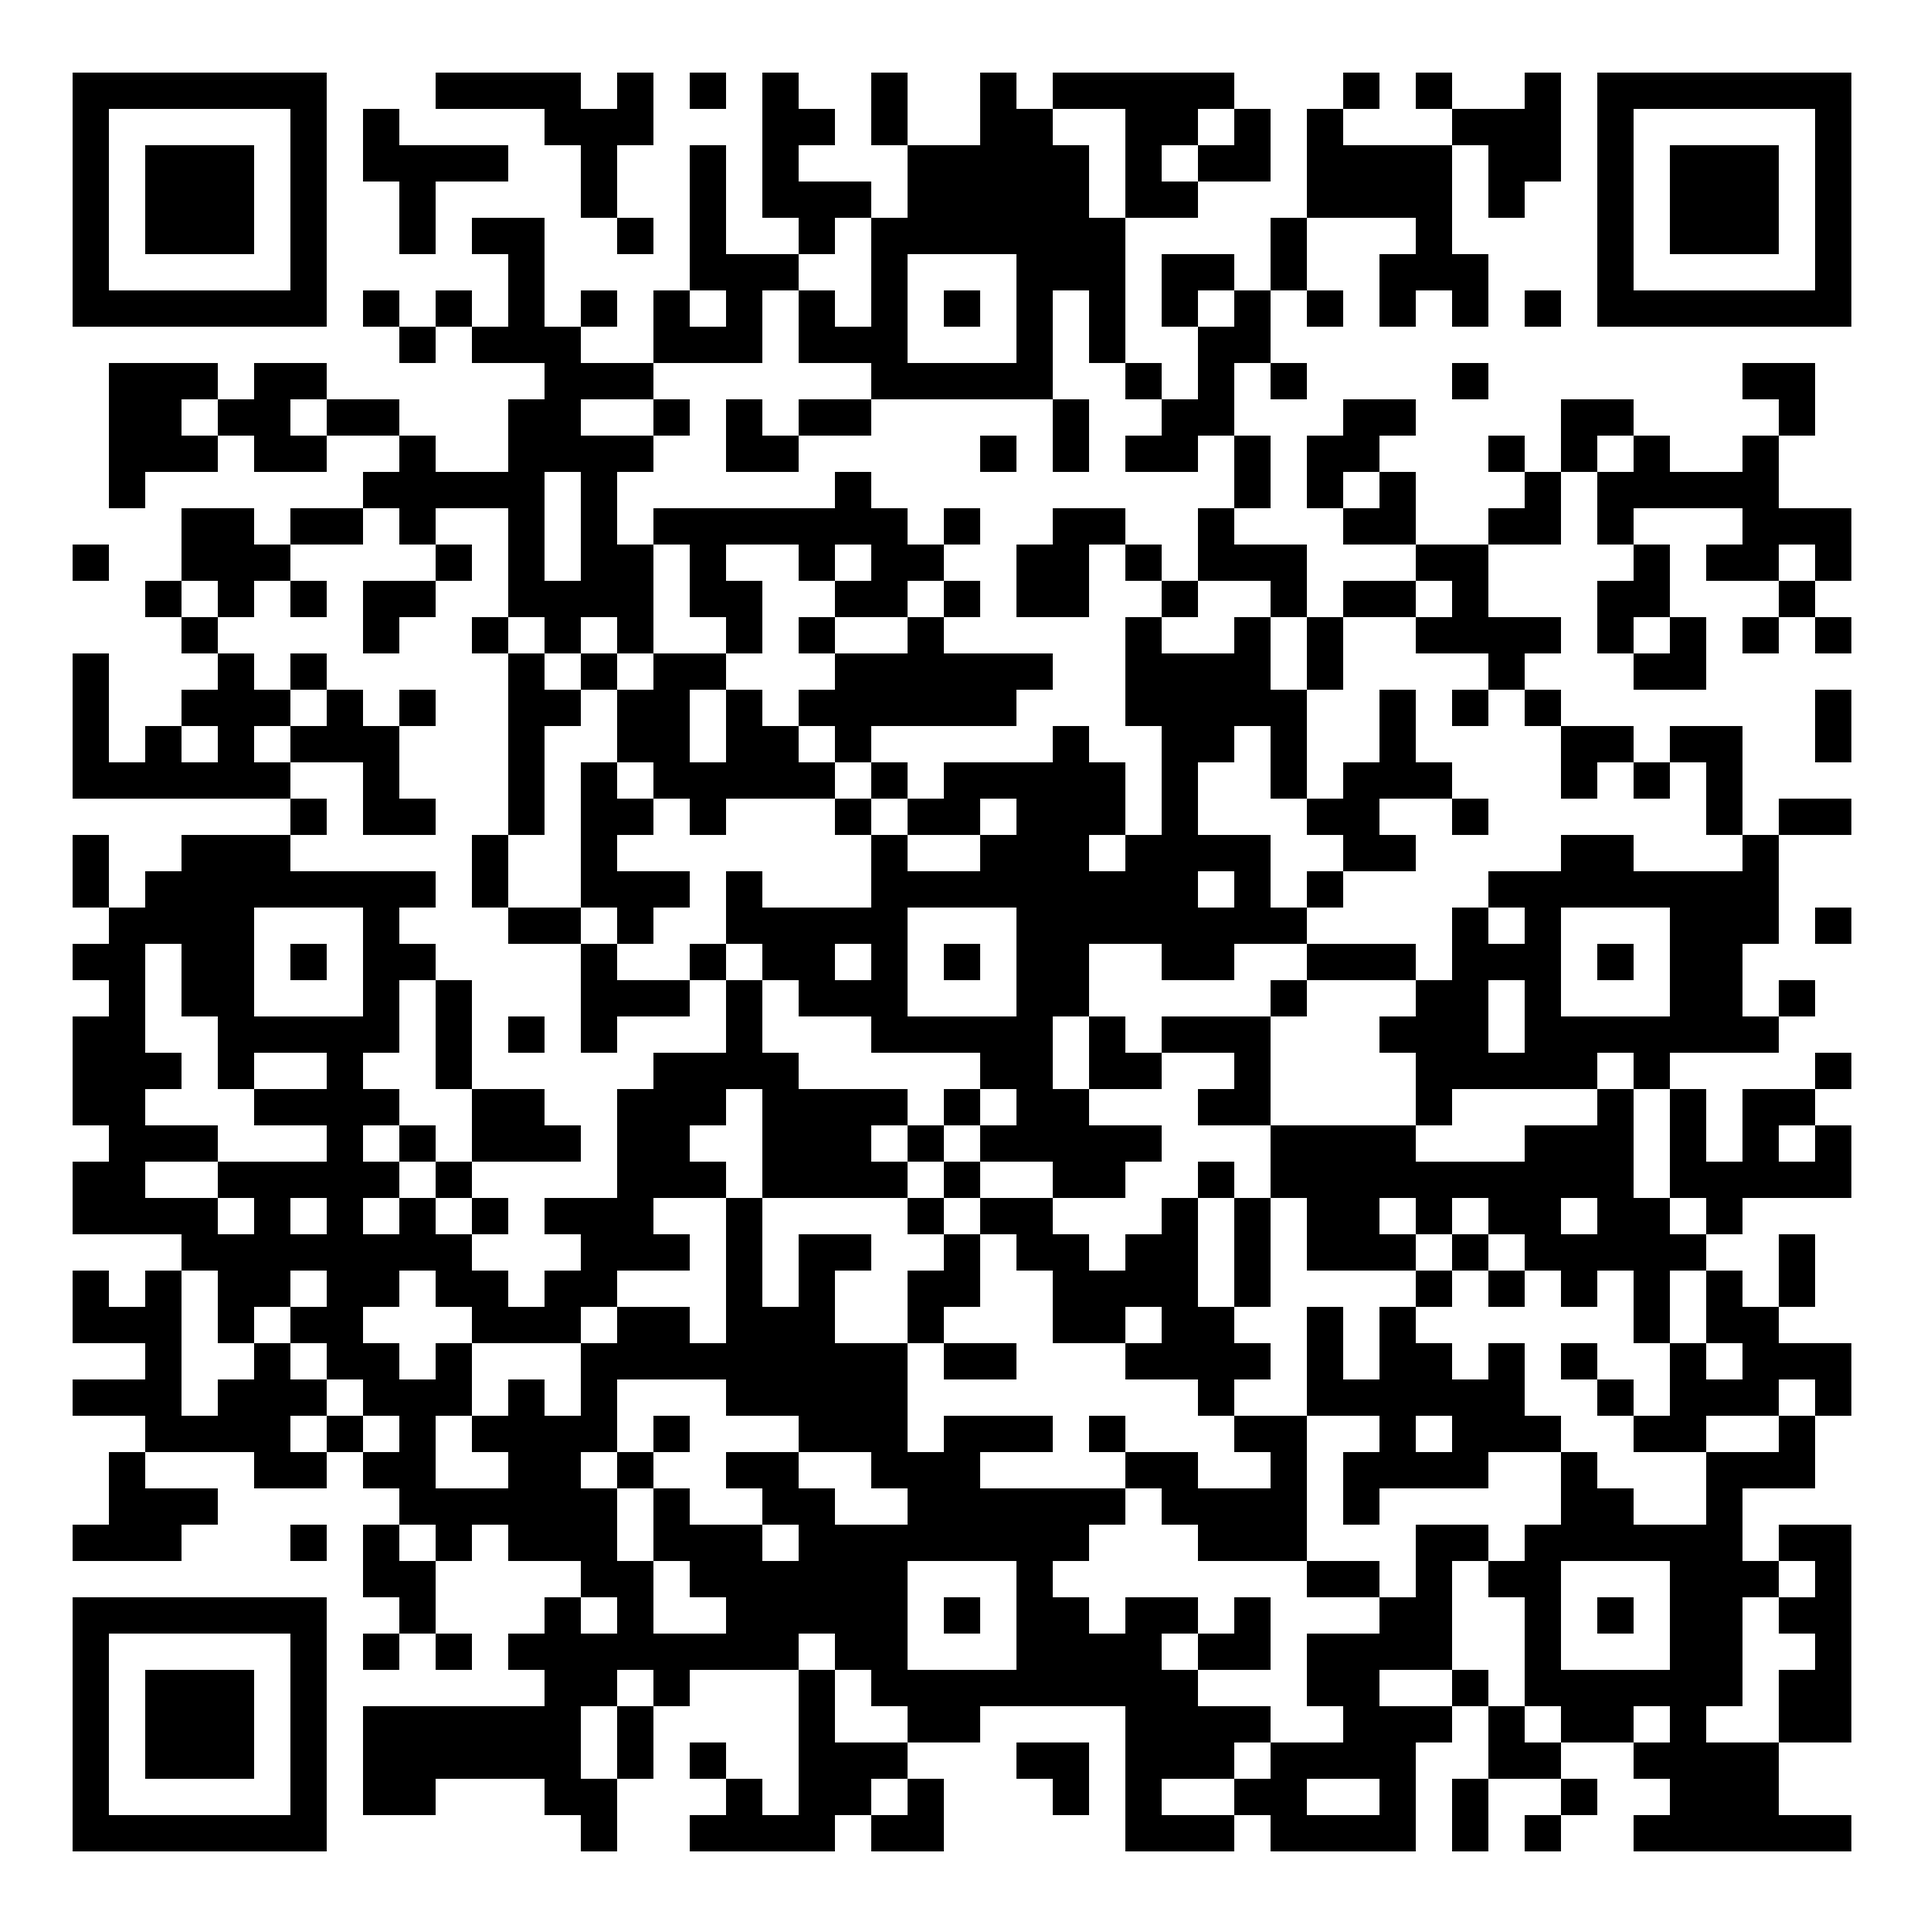
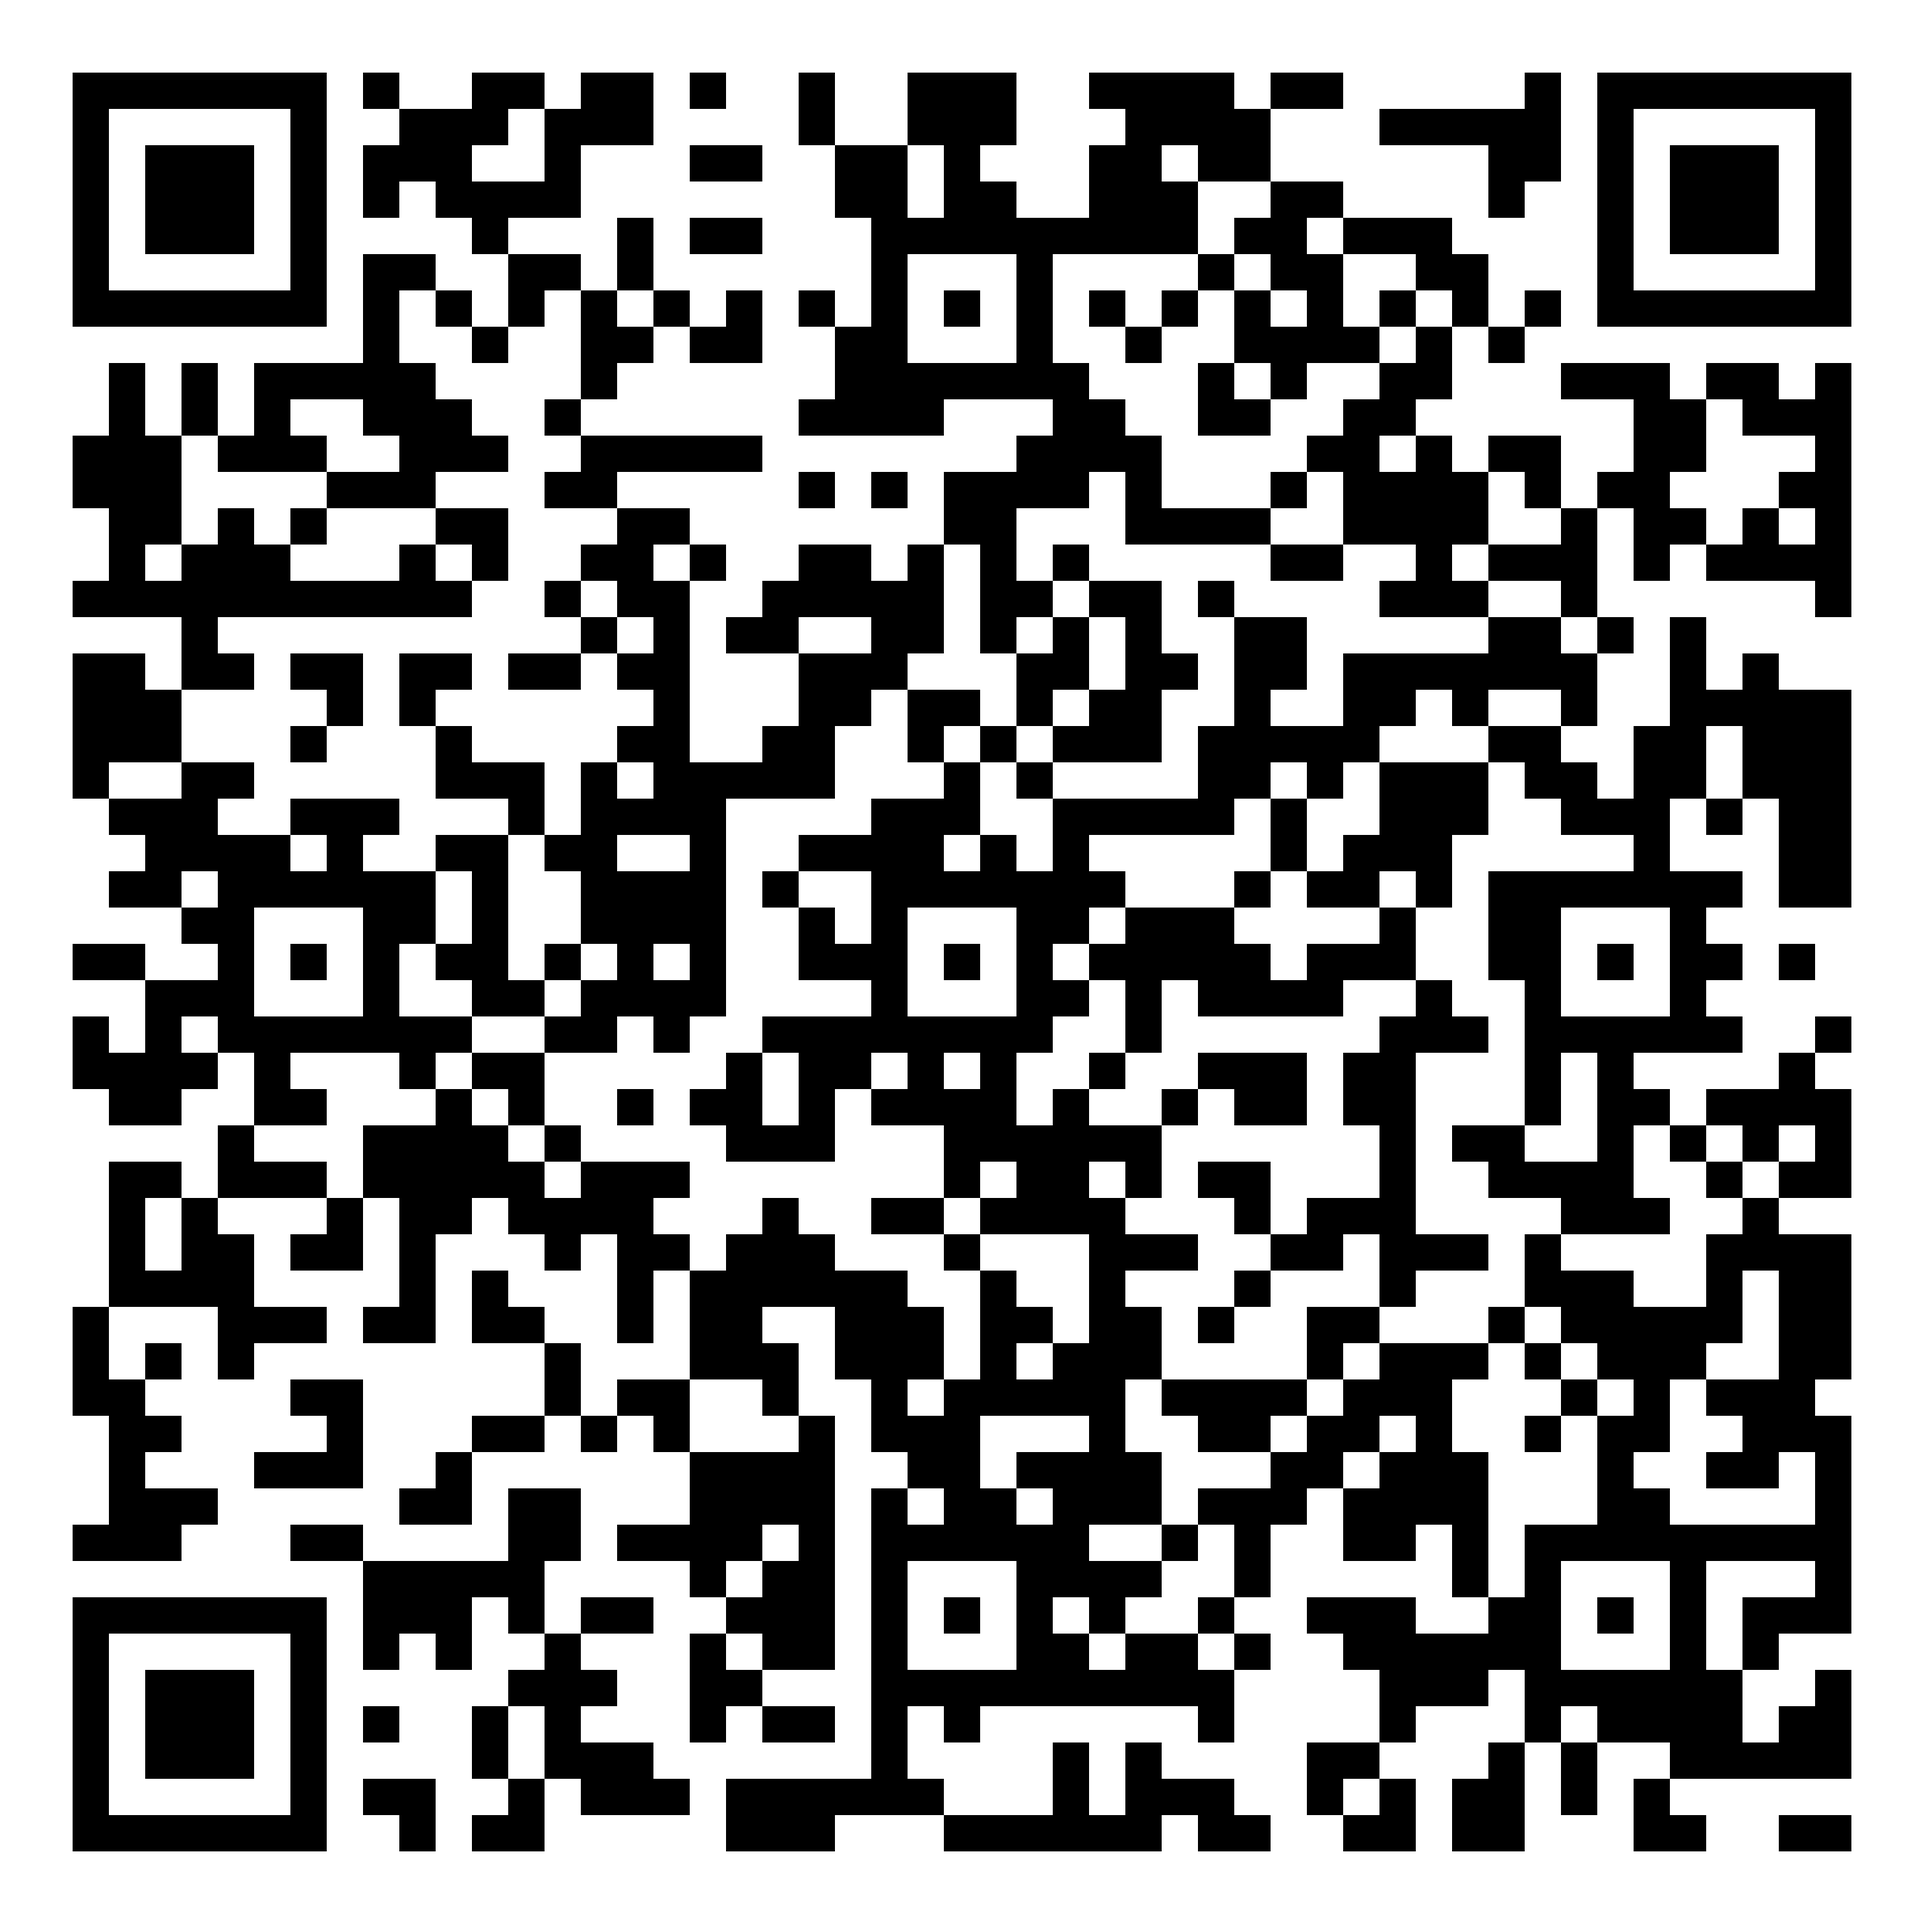
Codigo Terminado

diff --git a/dispositivos/templates/home.html b/dispositivos/templates/home.html
@@ -51,7 +51,7 @@
             <h2>Descarga la Aplicación Aquí</h2>
             <div id="download-link">
                 <!-- Enlace de descarga por defecto (para móviles) -->
-                <a href="https://github.com/GiovanniGonzalezDuoc/ProyectoSemestralAPK/archive/refs/heads/master.zip" class="download-button" target="_blank">
+                <a href="https://raw.githubusercontent.com/GiovanniGonzalezDuoc/ProyectoSemestralAPK/master/StudentRevolutionAPK.apk" class="download-button" target="_blank">
                     Descargar para Móvil
                 </a>
             </div>
